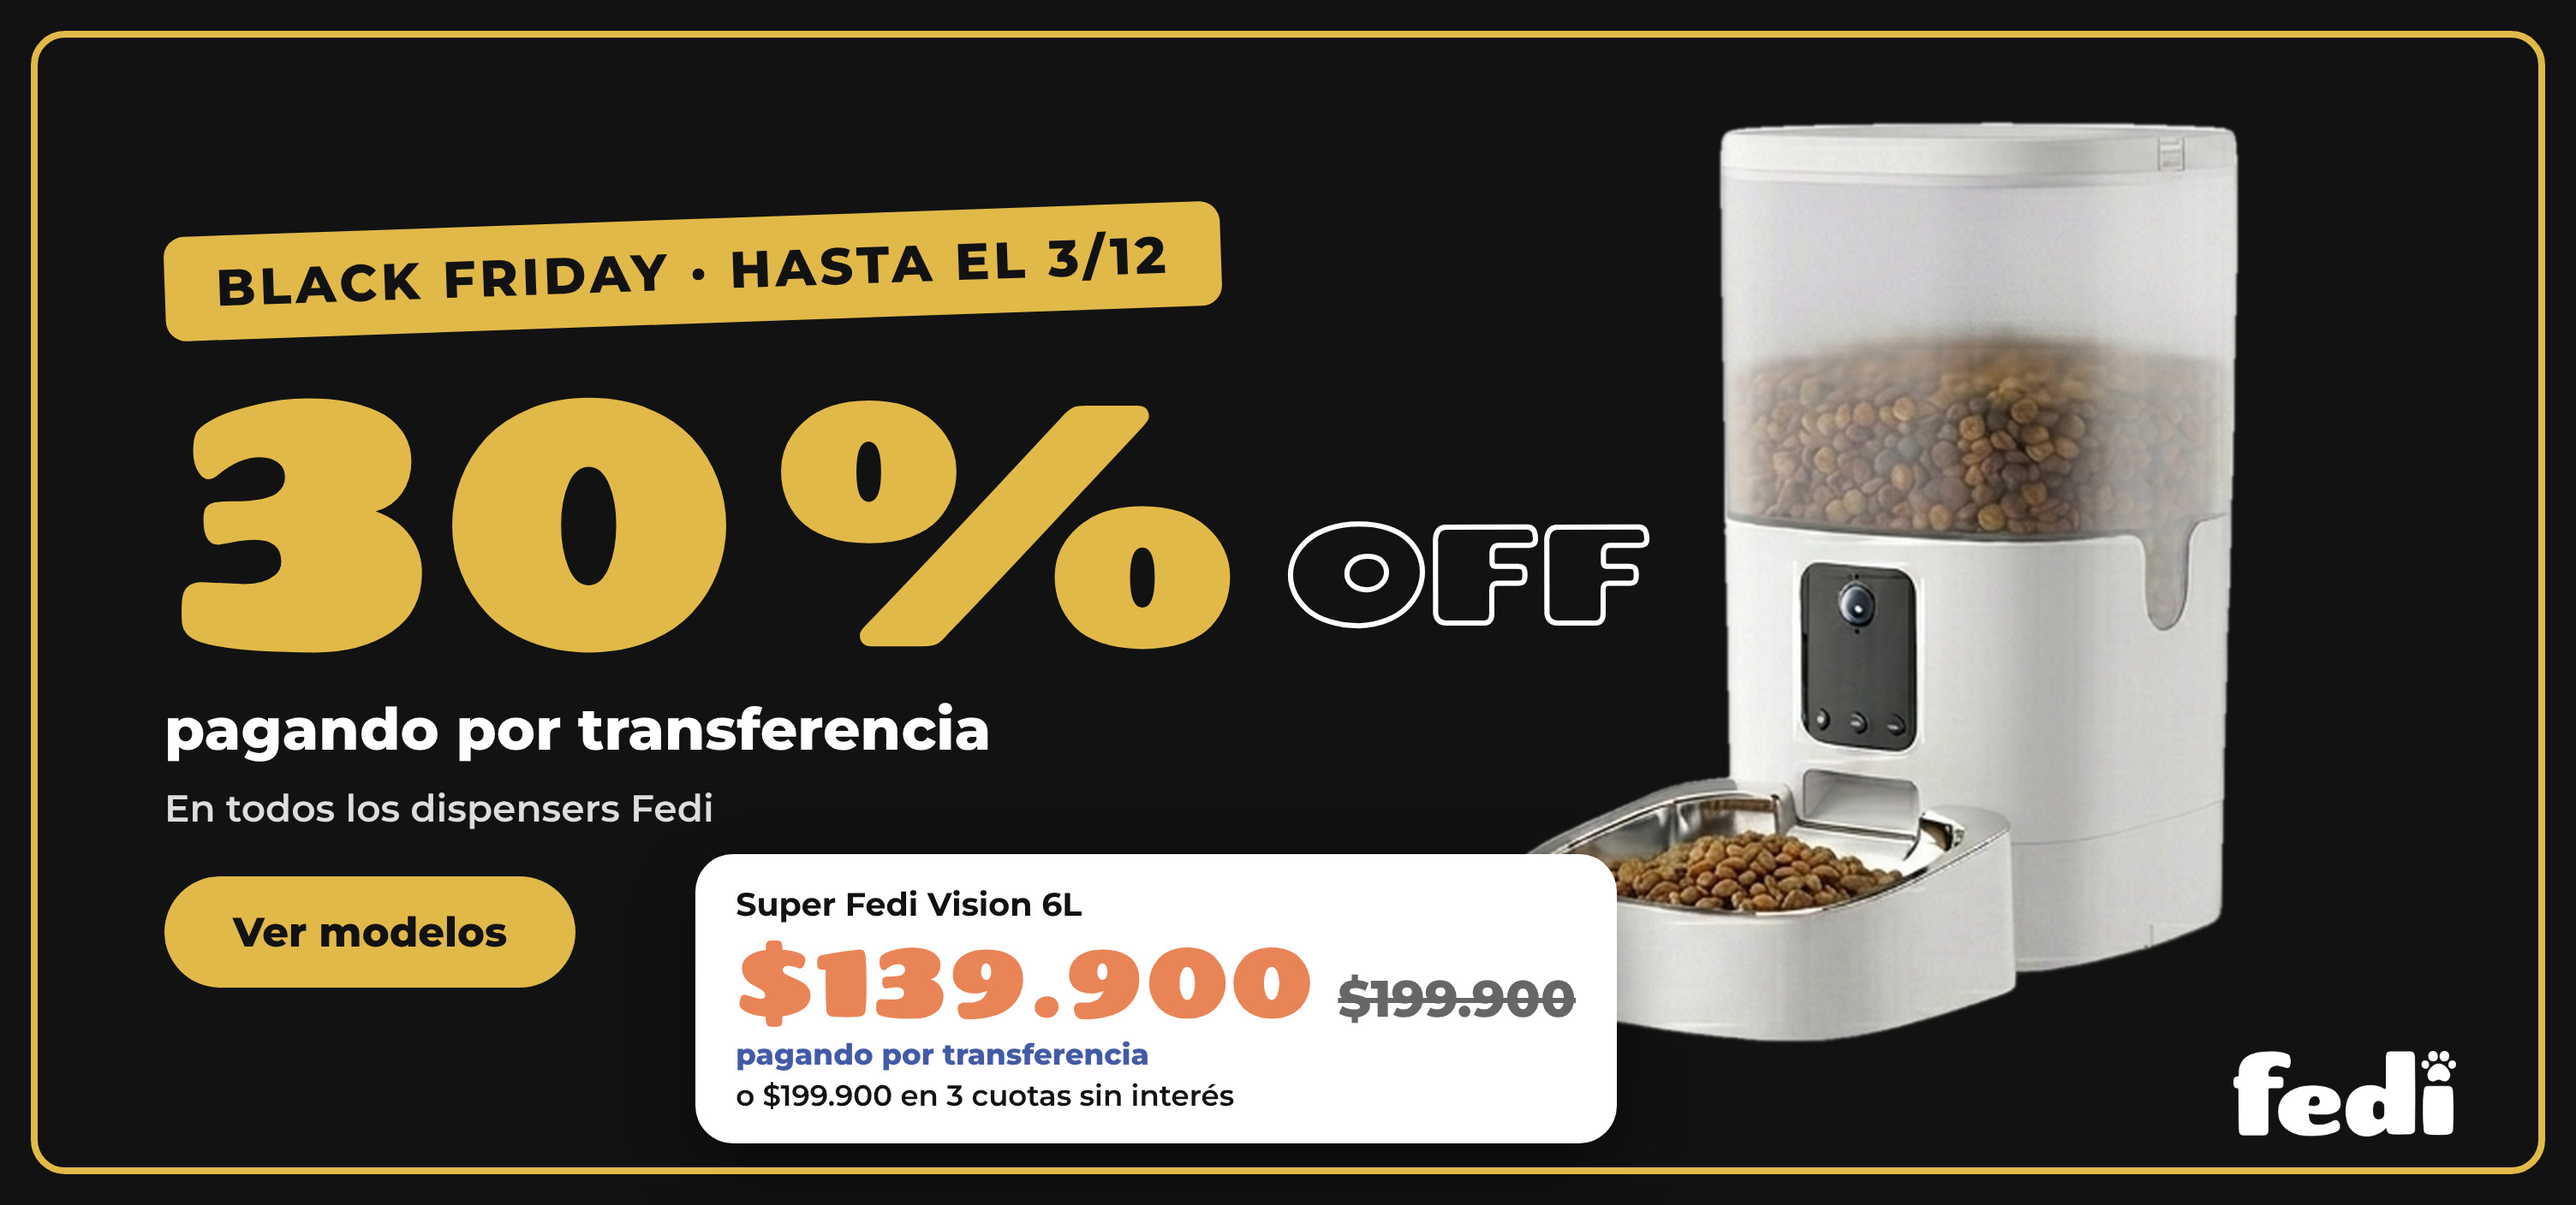
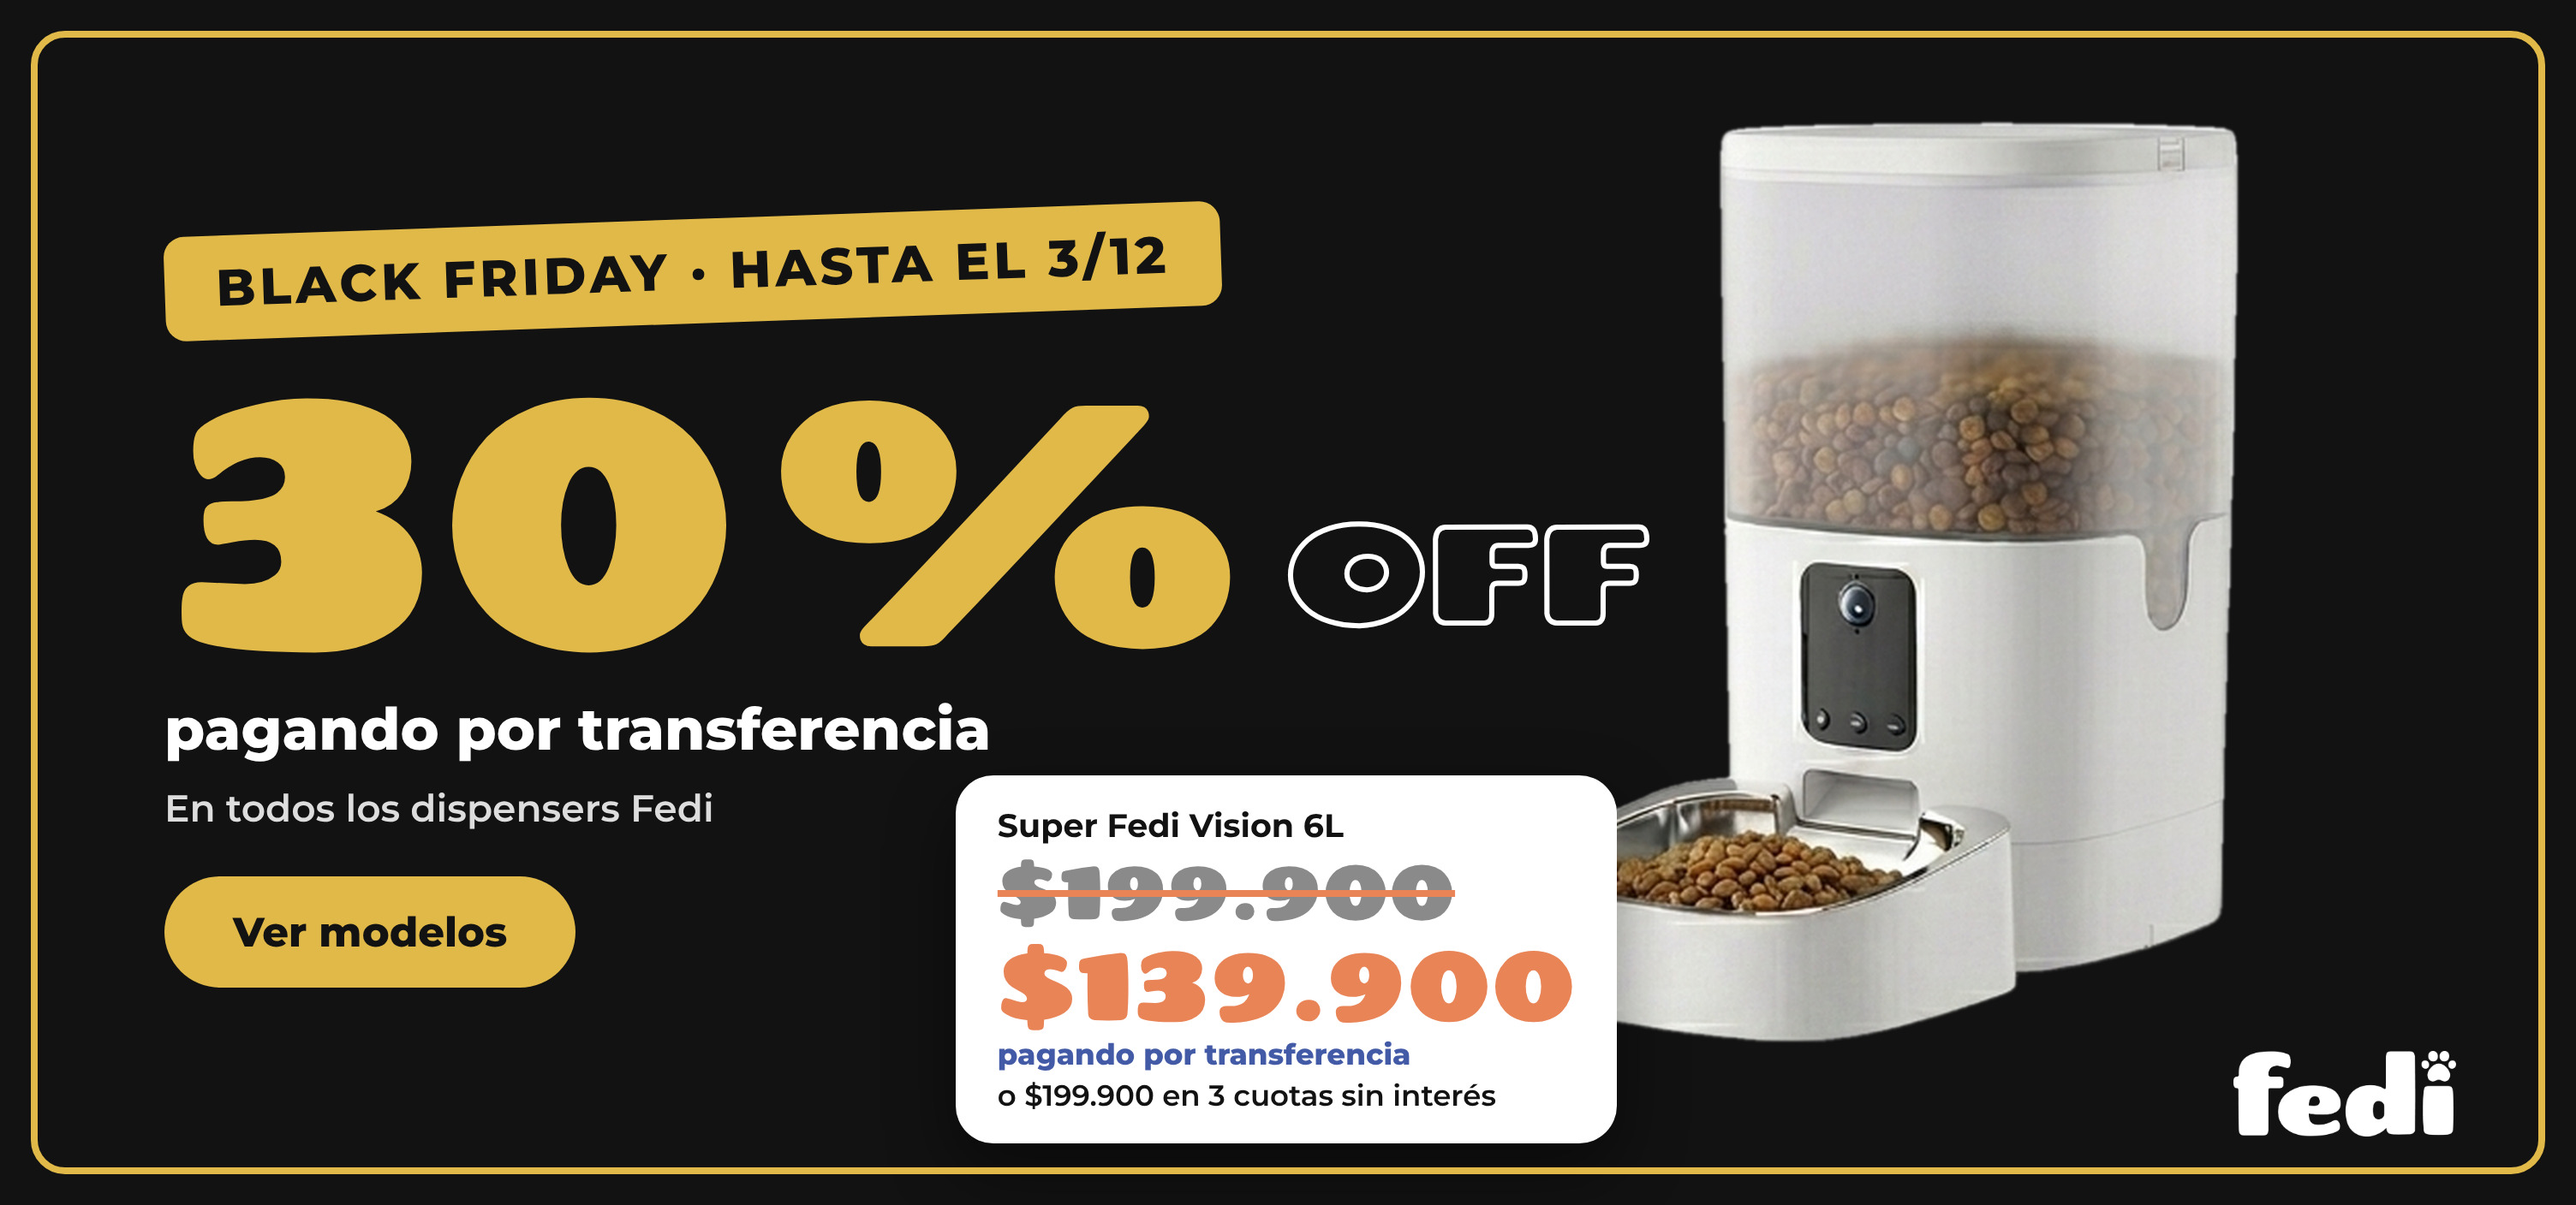
Black Friday: precio de lista tachado casi del tamaño del precio con descuento
Claude-Session: https://claude.ai/code/session_014qUiXLVEF6vqGgEhxx477v

Changed region(s): [[0.25, 0.625, 0.625, 0.9688]]

diff --git a/index.html b/index.html
@@ -688,7 +688,7 @@
         /* ===== Black Friday: precio por transferencia destacado (25/11) ===== */
         .pricing .single-product .content .price .bf-label .tp-badge { white-space: nowrap; }
         .pricing .single-product .content .price .bf-label { white-space: nowrap; margin: 0 0 2px; font-size: 12px; font-weight: 700; color: #2B2B2B; display: flex; align-items: center; justify-content: center; gap: 6px; }
-        .pricing .single-product .content .price .new-price .old-price { font-size: 0.62em; font-weight: 700; margin-left: 6px; color: #8a8a8a !important; -webkit-text-fill-color: #8a8a8a !important; text-decoration: line-through; text-decoration-thickness: 2px; }
+        .pricing .single-product .content .price .new-price .old-price { font-size: 0.85em; font-weight: 700; margin-left: 8px; color: #8a8a8a !important; -webkit-text-fill-color: #8a8a8a !important; text-decoration: line-through; text-decoration-thickness: 2px; }
         .pricing .single-product .content .btn-transfer { background: #25D366; color: #fff; }
         .pricing .single-product .content .btn-transfer:hover, .pricing .single-product .content .btn-transfer:focus { background: #fff; color: #128C4A; }
         .pricing .single-product .content .btn-cuotas { background: #fff; color: #435BA6; }
